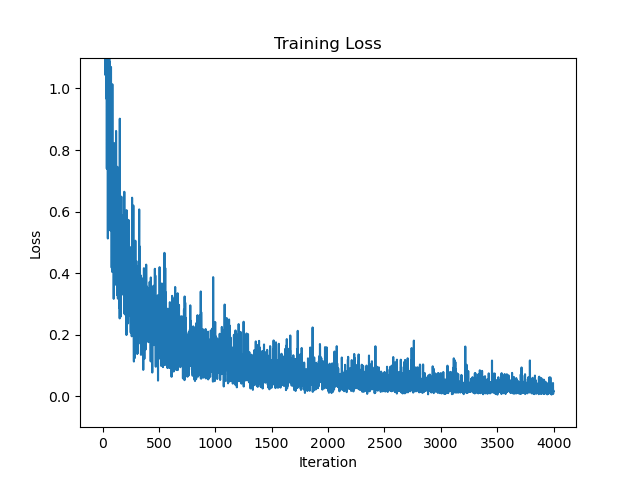
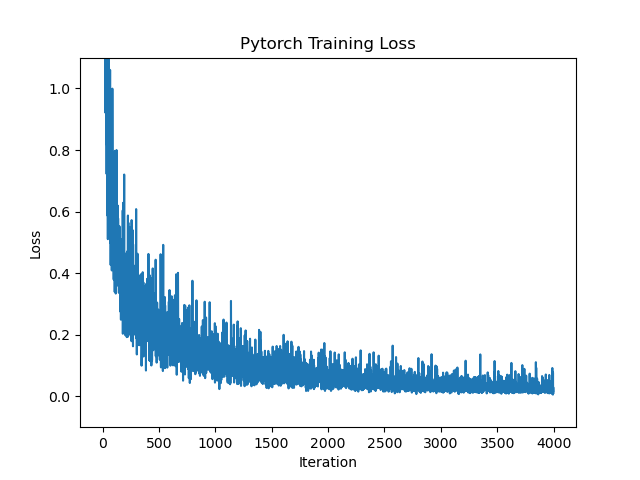
udpate

diff --git a/main_torch.py b/main_torch.py
@@ -65,7 +65,7 @@ if __name__ == '__main__':
     plt.xlabel('Iteration')
     plt.ylabel('Loss')
     plt.ylim(-0.1, 1.1)
-    plt.title('Training Loss')
+    plt.title('Pytorch Training Loss')
     plt.savefig('./learning_curves/loss_plot_torch.png')
     plt.close()
 
@@ -74,7 +74,7 @@ if __name__ == '__main__':
     plt.xlabel('Iteration')
     plt.ylabel('Accuracy')
     plt.ylim(-0.1, 1.1)
-    plt.title('Training Accuracy')
+    plt.title('Pytorch Training Accuracy')
     plt.savefig('./learning_curves/accuracy_plot_torch.png')
     plt.close()
     

diff --git a/main_np.py b/main_np.py
@@ -51,7 +51,7 @@ if __name__ == '__main__':
     plt.xlabel('Iteration')
     plt.ylabel('Loss')
     plt.ylim(-0.1, 1.1)
-    plt.title('Training Loss')
+    plt.title('Numpy Training Loss')
     plt.savefig('./learning_curves/loss_plot_np.png')
     plt.close()
 
@@ -60,6 +60,6 @@ if __name__ == '__main__':
     plt.xlabel('Iteration')
     plt.ylabel('Accuracy')
     plt.ylim(-0.1, 1.1)
-    plt.title('Training Accuracy')
+    plt.title('Numpy Training Accuracy')
     plt.savefig('./learning_curves/accuracy_plot_np.png')
     plt.close()

diff --git a/README.md b/README.md
@@ -80,9 +80,9 @@ If you are trying to understand what goes on "under the hood" in neural networks
 
 ### Pytorch
 
-![Accuracy](./learning_curves/accuracy_plot_torch.png)
+![Pytorch Accuracy](./learning_curves/accuracy_plot_torch.png)
 
-![Loss](./learning_curves/loss_plot_torch.png)
+![Pytorch Loss](./learning_curves/loss_plot_torch.png)
 
 |Comparions| Test Accuracy |
 |-----------|----------|
@@ -94,9 +94,9 @@ If you are trying to understand what goes on "under the hood" in neural networks
 
 ### Numpy
 
-![Accuracy](./learning_curves/accuracy_plot_np.png)
+![Numpy Accuracy](./learning_curves/accuracy_plot_np.png)
 
-![Loss](./learning_curves/loss_plot_np.png)
+![Numpy Loss](./learning_curves/loss_plot_np.png)
 
 
 |Comparions| Test Accuracy |
